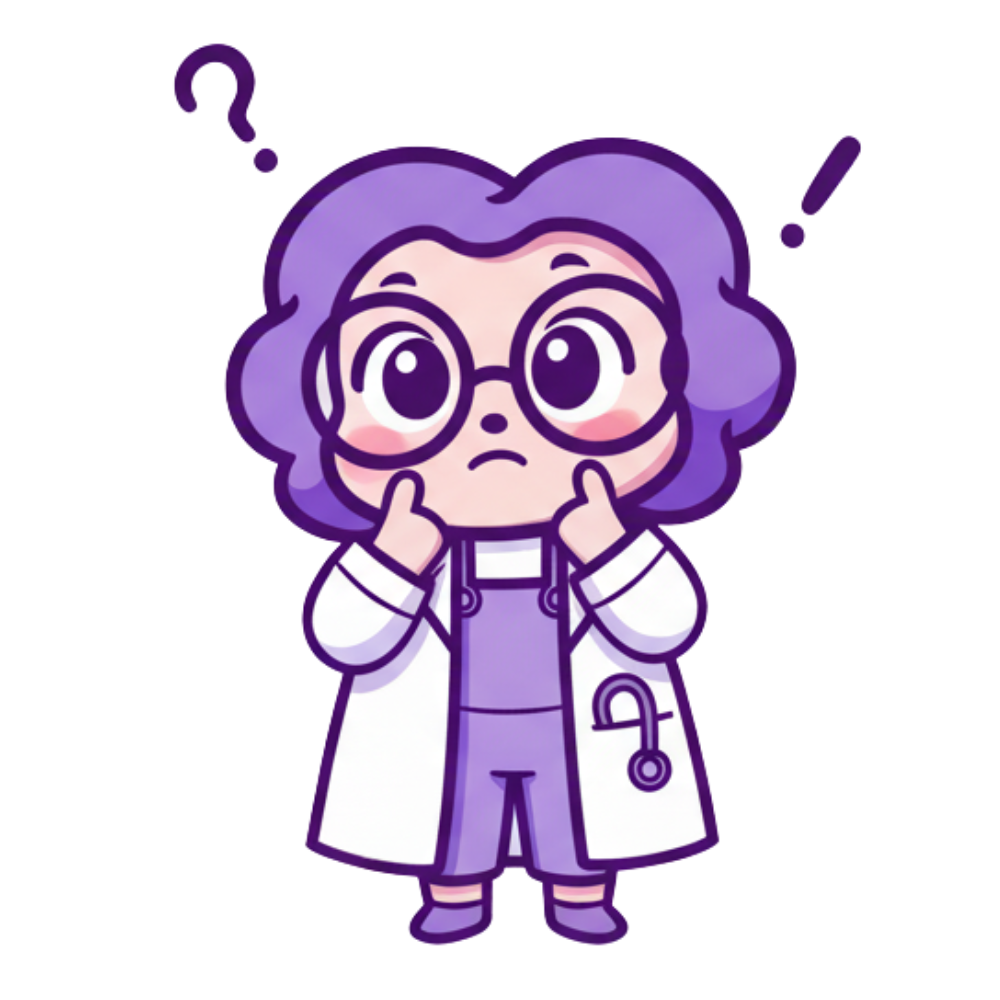
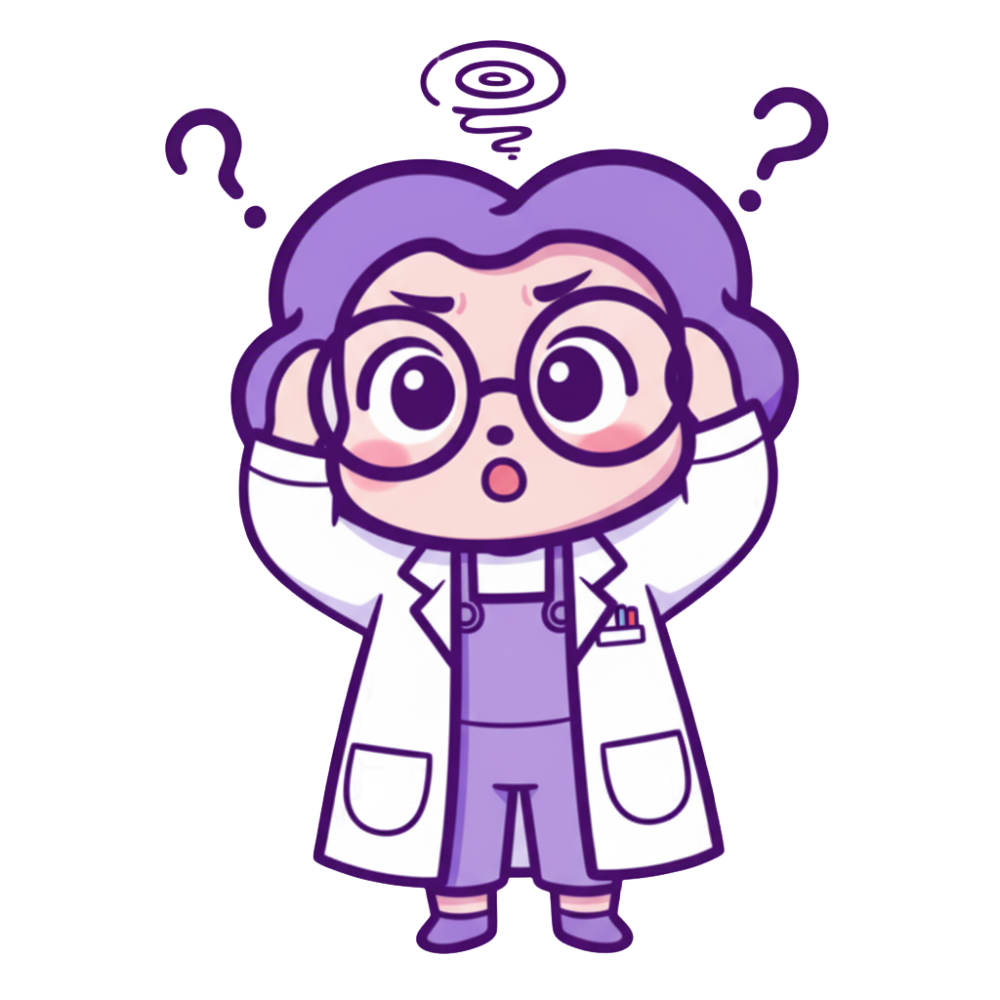
404

Changed region(s): [[0.155, 0.031, 0.868, 0.961], [0.775, 0.217, 0.806, 0.248]]

diff --git a/app/not-found.tsx b/app/not-found.tsx
@@ -26,42 +26,59 @@ export default function NotFound() {
   }, []);
 
   return (
-    <div ref={wrapRef} className="relative min-h-[70vh] w-full bg-gradient-to-br from-indigo-50 via-violet-50 to-fuchsia-50">
-      {/* Big rounded card */}
-      <div className="mx-auto my-10 w-[min(1100px,95%)] rounded-[28px] border border-violet-200/50 bg-white/90 p-6 shadow-[0_30px_90px_rgba(99,102,241,0.25)] backdrop-blur-xl">
-        <div className="grid grid-cols-1 items-center gap-6 md:grid-cols-2">
-          {/* Left column */}
-          <div className="relative p-4 sm:p-6">
-            <div className="font-brand text-xl tracking-wider text-indigo-700">EnterMedSchool.com</div>
-            <div className="mt-4 select-none text-[88px] font-extrabold leading-none text-transparent sm:text-[120px]"
-                 style={{ WebkitTextStroke: "10px #7c3aed", backgroundImage: "linear-gradient(180deg,#f5f3ff,#f3e8ff)", WebkitBackgroundClip: "text" }}>404
+    <div ref={wrapRef} className="relative isolate min-h-[78vh] w-full overflow-hidden">
+      {/* Ambient gradients */}
+      <div className="pointer-events-none absolute inset-0 -z-20 bg-[radial-gradient(1200px_600px_at_70%_0%,rgba(129,140,248,0.18),transparent),radial-gradient(800px_400px_at_0%_80%,rgba(192,132,252,0.18),transparent)]" />
+      {/* Grid overlay */}
+      <div
+        className="pointer-events-none absolute inset-0 -z-10 opacity-[0.18] [mask-image:radial-gradient(70%_60%_at_50%_40%,#000,transparent)]"
+        style={{ background: "linear-gradient(to right, rgba(99,102,241,.25) 1px, transparent 1px) 0 0/22px 22px, linear-gradient(to bottom, rgba(99,102,241,.25) 1px, transparent 1px) 0 0/22px 22px" }}
+      />
+
+      {/* Content */}
+      <section className="relative mx-auto my-8 w-[min(1200px,94%)] rounded-[28px] border border-white/30 bg-white/80 p-6 shadow-[0_30px_100px_rgba(79,70,229,0.25)] backdrop-blur-xl sm:my-10 sm:p-8">
+        <div className="grid grid-cols-1 items-center gap-8 md:grid-cols-12">
+          {/* Left copy */}
+          <div className="relative md:col-span-7 lg:col-span-7">
+            <div className="font-brand text-sm tracking-wider text-indigo-700 sm:text-base">EnterMedSchool.com</div>
+            <div className="mt-3 flex items-end gap-3">
+              <h1 className="select-none text-[84px] font-extrabold leading-none text-transparent sm:text-[120px]" style={{ WebkitTextStroke: "10px #7c3aed", backgroundImage: "linear-gradient(180deg,#f5f3ff,#f3e8ff)", WebkitBackgroundClip: "text" }}>404</h1>
+              <span className="mb-3 hidden rounded-full bg-fuchsia-100 px-2 py-1 text-xs font-semibold text-fuchsia-700 sm:inline">Lost</span>
             </div>
-            <div className="mt-2 text-lg font-extrabold text-gray-800">Oops… page not found</div>
-            <p className="mt-1 max-w-md text-sm text-gray-600">We suggest going back to the homepage while we tidy things up. If you think this is a bug, please let us know.</p>
-            <div className="mt-4 flex flex-wrap gap-3">
+            <div className="mt-1 text-xl font-extrabold text-gray-900 sm:text-2xl">Page not found</div>
+            <p className="mt-2 max-w-xl text-sm text-gray-600">We couldn’t find that page. Try one of these popular destinations, or go back to the homepage.</p>
+            <div className="mt-5 flex flex-wrap gap-3">
               <Link href="/" className="rounded-full bg-gradient-to-r from-indigo-600 to-fuchsia-600 px-4 py-2 text-sm font-semibold text-white shadow hover:opacity-95">Back to Homepage</Link>
-              <a href="mailto:hello@entermedschool.com?subject=404%20feedback" className="rounded-full border border-gray-300 px-4 py-2 text-sm font-semibold text-gray-700 hover:bg-gray-50">Report issue</a>
+              <a href="mailto:hello@entermedschool.com?subject=404%20feedback" className="rounded-full border border-gray-300 bg-white/70 px-4 py-2 text-sm font-semibold text-gray-700 hover:bg-gray-50">Report issue</a>
             </div>
-            {/* Cute swirls */}
-            <Swirl className="absolute -left-6 top-8 text-fuchsia-400/70" delay={0} refCb={(n)=>n && (layersRef.current[0]=n)} />
-            <Swirl className="absolute left-40 top-24 text-indigo-400/70" delay={400} refCb={(n)=>n && (layersRef.current[1]=n)} />
+
+            {/* Suggestions */}
+            <div className="mt-6 grid max-w-xl grid-cols-1 gap-3 sm:grid-cols-2">
+              <Suggest href="/#universities" title="Universities Map" subtitle="Explore programs and cities" icon="map" />
+              <Suggest href="/imat-course" title="IMAT Course" subtitle="Ace the entrance exam" icon="star" />
+            </div>
+
+            {/* Swirls */}
+            <Swirl className="absolute -left-7 top-5 text-fuchsia-400/70" delay={0} refCb={(n)=>n && (layersRef.current[0]=n)} />
+            <Swirl className="absolute left-40 top-28 text-indigo-400/70" delay={400} refCb={(n)=>n && (layersRef.current[1]=n)} />
           </div>
 
-          {/* Right column: character */}
-          <div className="relative">
-            <div className="pointer-events-none absolute -right-6 -top-6 h-24 w-24 rounded-3xl bg-fuchsia-100/60 blur-xl" />
-            <div className="pointer-events-none absolute -left-8 bottom-6 h-20 w-20 rounded-full bg-indigo-100/60 blur-xl" />
-            {/* Leo image (bundled asset) */}
-            <div className="mx-auto h-64 w-auto animate-[bob_4s_ease-in-out_infinite] drop-shadow-[0_12px_24px_rgba(99,102,241,0.25)]">
-              <Image src={LeoConfused} alt="Confused Leo" className="h-64 w-auto" />
+          {/* Right illustration */}
+          <div className="relative md:col-span-5 lg:col-span-5">
+            <div className="pointer-events-none absolute -right-6 -top-6 h-28 w-28 rounded-3xl bg-fuchsia-100/60 blur-2xl" />
+            <div className="pointer-events-none absolute -left-8 bottom-6 h-24 w-24 rounded-full bg-indigo-100/60 blur-2xl" />
+            <div className="relative mx-auto h-64 w-[260px] sm:h-72 sm:w-[300px]">
+              <div className="absolute inset-0 rounded-[28px] bg-gradient-to-br from-indigo-50 to-purple-50" />
+              <div className="relative flex h-full items-center justify-center">
+                <Image src={LeoConfused} alt="Confused Leo" className="h-56 w-auto sm:h-64" />
+              </div>
             </div>
-            {/* Floating question marks */}
-            <Question style={{ left: "12%", top: "16%" }} refCb={(n)=>n && (layersRef.current[2]=n)} />
-            <Question style={{ right: "10%", top: "8%" }} refCb={(n)=>n && (layersRef.current[3]=n)} />
-            <Question style={{ right: "20%", bottom: "12%" }} refCb={(n)=>n && (layersRef.current[4]=n)} />
+            <Question style={{ left: "10%", top: "8%" }} refCb={(n)=>n && (layersRef.current[2]=n)} />
+            <Question style={{ right: "12%", top: "12%" }} refCb={(n)=>n && (layersRef.current[3]=n)} />
+            <Question style={{ right: "20%", bottom: "8%" }} refCb={(n)=>n && (layersRef.current[4]=n)} />
           </div>
         </div>
-      </div>
+      </section>
 
       <style>{`
         @keyframes bob { 0%,100%{ transform: translateY(0) } 50%{ transform: translateY(-6px) } }
@@ -74,7 +91,6 @@ export default function NotFound() {
 function Swirl({ className, delay=0, refCb }: { className?: string; delay?: number; refCb?: (n: HTMLDivElement|null)=>void }) {
   return (
     <div ref={refCb as any} className={`${className||''} h-10 w-10 animate-[scribble_8s_linear_infinite]`} style={{ animationDelay: `${delay}ms` }}>
-      {/* Bundled swirl svg */}
       <Image src={Scribble} alt="swirl" width={40} height={40} />
     </div>
   );
@@ -90,3 +106,26 @@ function Question({ style, refCb }: { style?: React.CSSProperties; refCb?: (n: H
 
 // kept for reference if we ever need an inline fallback
 const inlineSwirlSVG = `<svg viewBox='0 0 24 24' width='40' height='40' xmlns='http://www.w3.org/2000/svg' fill='none' stroke='currentColor' stroke-width='1.8'><path d='M12 3c-5 0-8 4-8 7.5S6.5 18 11 18s6.5-2 6.5-4.5S15 9 12 9s-3.5 1-3.5 2.5S9.5 15 12 15s3.5-1 3.5-2.5' stroke-linecap='round' stroke-linejoin='round'/></svg>`;
+
+function Suggest({ href, title, subtitle, icon }: { href: string; title: string; subtitle: string; icon: 'map'|'star'|'book' }) {
+  return (
+    <Link href={href} className="group flex items-start gap-3 rounded-2xl border border-indigo-100 bg-white/80 p-3 shadow-sm ring-1 ring-white/40 backdrop-blur transition hover:shadow-md">
+      <span className="mt-0.5 inline-flex h-8 w-8 items-center justify-center rounded-xl bg-gradient-to-br from-indigo-500 to-fuchsia-500 text-white shadow-sm">
+        {icon==='map' && (
+          <svg viewBox="0 0 24 24" className="h-4 w-4" fill="currentColor"><path d="M9 3l6 2 6-2v16l-6 2-6-2-6 2V5l6-2zm0 2L5 6v12l4-1.333V5zm2 0v12l4 1.333V6L11 5zm6 0v12l2-.667V4.333L17 5z"/></svg>
+        )}
+        {icon==='star' && (
+          <svg viewBox="0 0 24 24" className="h-4 w-4" fill="currentColor"><path d="M12 17.27L18.18 21l-1.64-7.03L22 9.24l-7.19-.61L12 2 9.19 8.63 2 9.24l5.46 4.73L5.82 21z"/></svg>
+        )}
+        {icon==='book' && (
+          <svg viewBox="0 0 24 24" className="h-4 w-4" fill="currentColor"><path d="M18 2H9a3 3 0 00-3 3v14a3 3 0 013-3h9v-2H9a5 5 0 00-3 1V5a1 1 0 011-1h11v16a1 1 0 001 1h1V3a1 1 0 00-1-1z"/></svg>
+        )}
+      </span>
+      <span>
+        <div className="font-semibold text-gray-900">{title}</div>
+        <div className="text-xs text-gray-600">{subtitle}</div>
+      </span>
+    </Link>
+  );
+}
+
